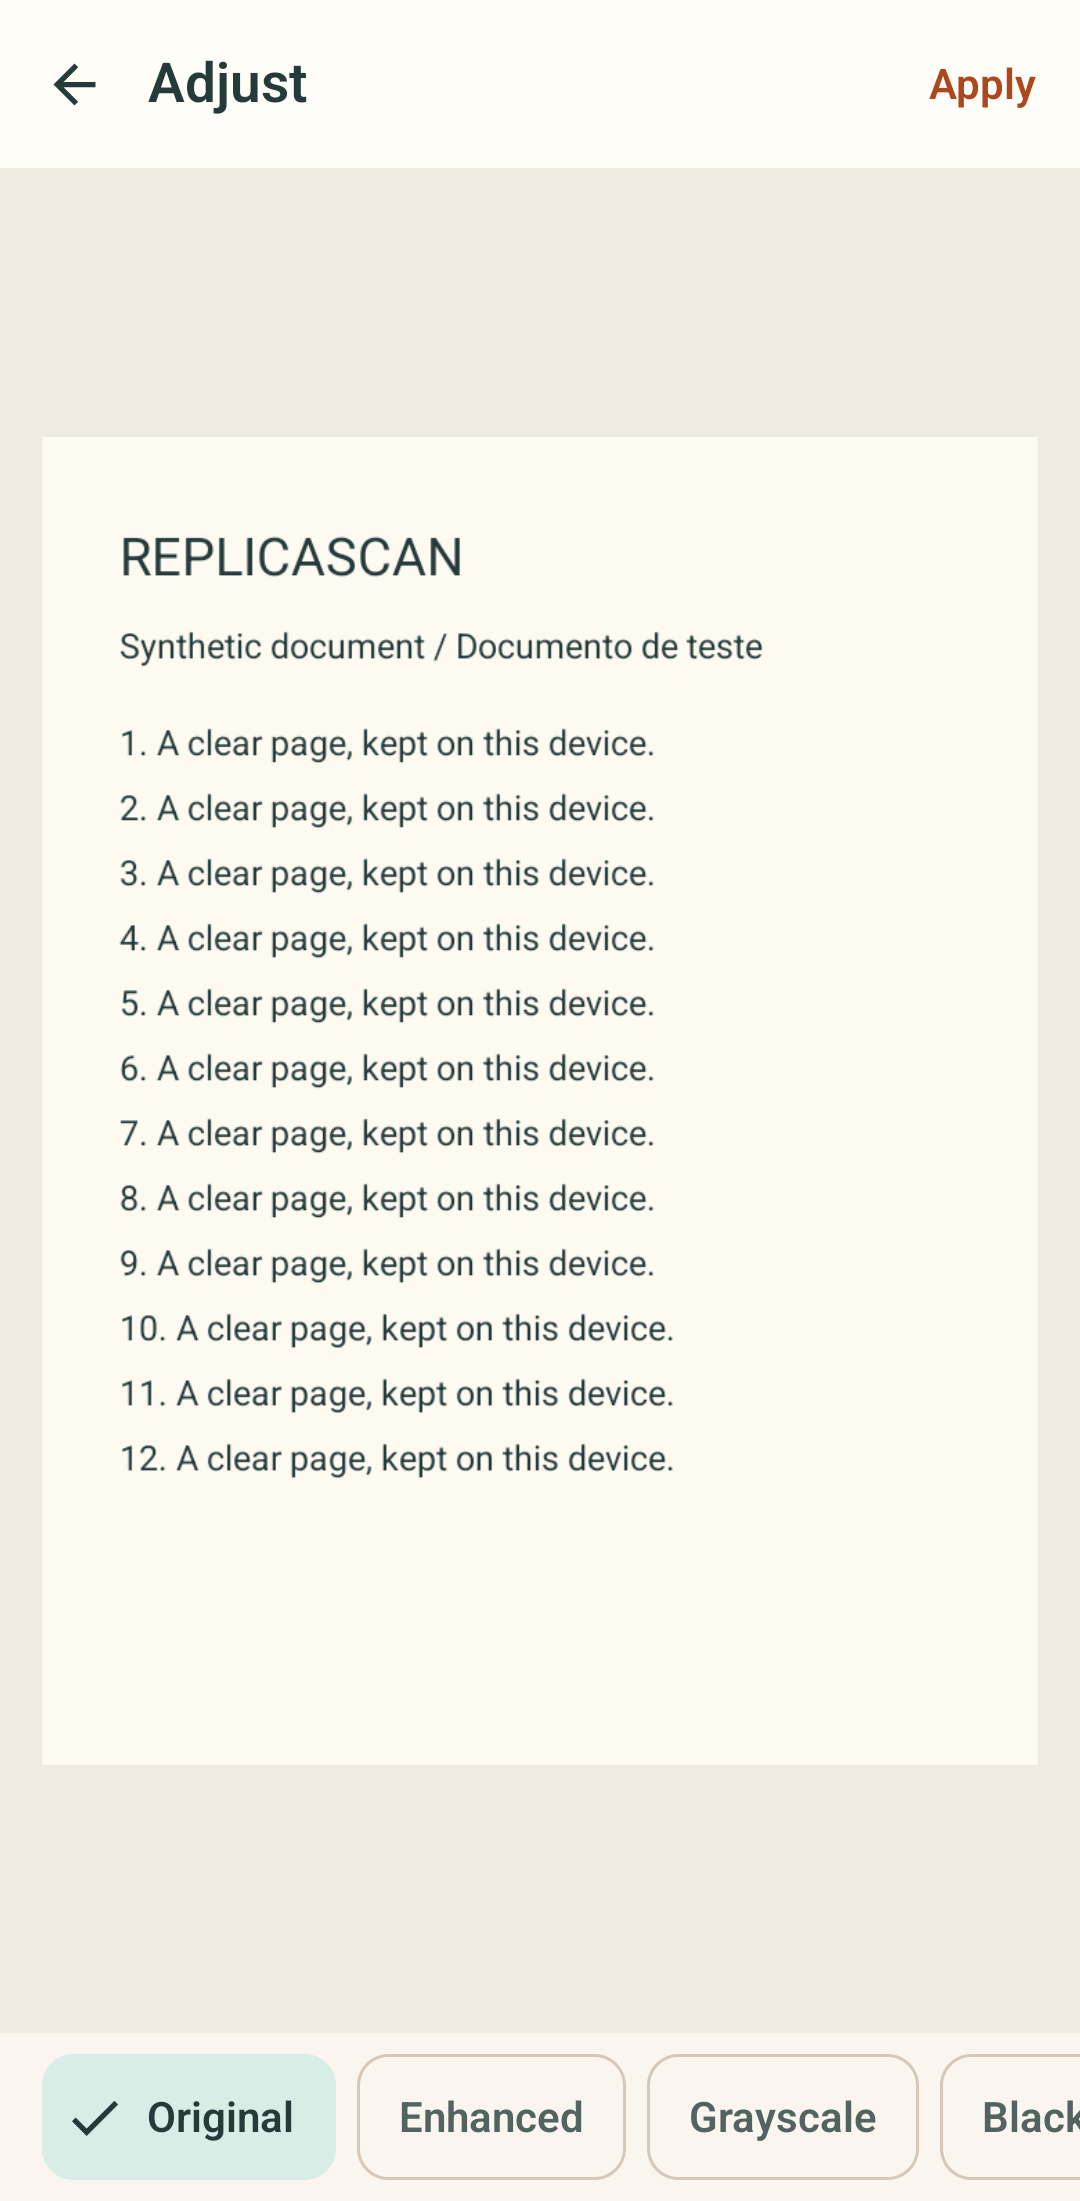
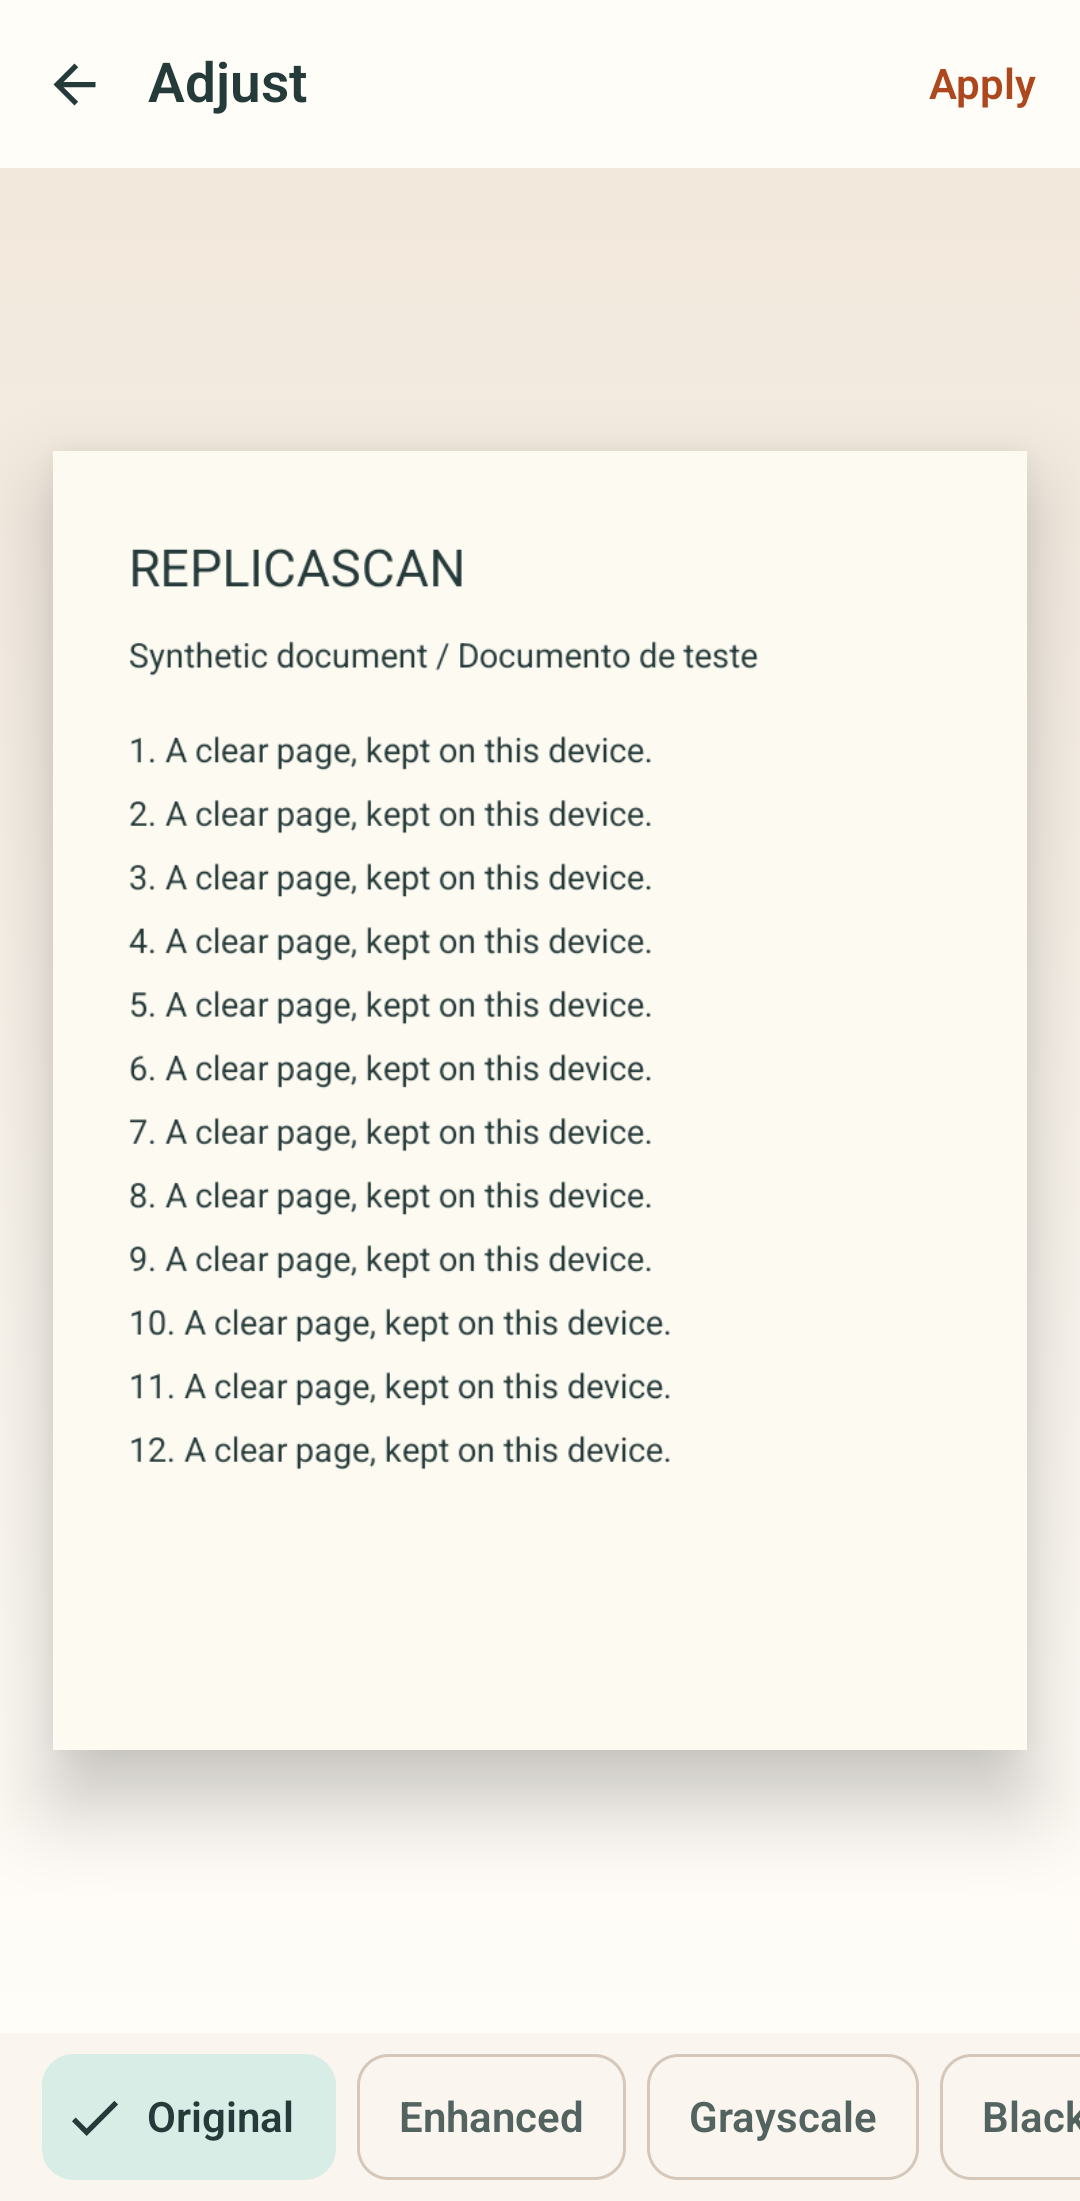
feat(editor): unify filter preview and OCR paper

Changed region(s): [[0.0917, 0.2472, 0.7028, 0.6797], [0.0306, 0.1854, 0.9778, 0.8342], [0.0, 0.896, 1.0, 0.9269]]

diff --git a/feature-editor/src/main/java/com/soturine/replicascan/feature/editor/FilterScreen.kt b/feature-editor/src/main/java/com/soturine/replicascan/feature/editor/FilterScreen.kt
@@ -1,6 +1,5 @@
 package com.soturine.replicascan.feature.editor
 
-import androidx.compose.animation.Crossfade
 import androidx.compose.foundation.gestures.detectTapGestures
 import androidx.compose.foundation.focusable
 import androidx.compose.ui.input.key.Key
@@ -17,9 +16,7 @@ import androidx.compose.ui.semantics.Role
 import androidx.compose.ui.semantics.onClick
 import androidx.compose.ui.semantics.role
 import androidx.compose.ui.semantics.semantics
-import androidx.compose.foundation.background
 import androidx.compose.foundation.layout.Arrangement
-import androidx.compose.foundation.layout.Box
 import androidx.compose.foundation.layout.Column
 import androidx.compose.foundation.layout.PaddingValues
 import androidx.compose.foundation.layout.fillMaxSize
@@ -53,12 +50,10 @@ import androidx.compose.runtime.saveable.rememberSaveable
 import androidx.compose.runtime.setValue
 import androidx.compose.ui.Alignment
 import androidx.compose.ui.Modifier
-import androidx.compose.ui.layout.ContentScale
 import androidx.compose.ui.layout.onSizeChanged
 import androidx.compose.ui.res.stringResource
 import androidx.compose.ui.unit.dp
 import com.soturine.replicascan.core.common.model.DocumentFilterType
-import com.soturine.replicascan.core.ui.component.AsyncUriImage
 import com.soturine.replicascan.core.ui.localizedTitle
 import kotlin.math.max
 
@@ -108,24 +103,16 @@ fun FilterScreen(
             if (state.isPreviewLoading || state.isProcessing) {
                 LinearProgressIndicator(modifier = Modifier.fillMaxWidth())
             }
-            Box(
+            DocumentPaperStage(
+                imageUri = state.previewImageUri ?: page.sourceUri,
+                fallbackUri = page.sourceUri,
+                loading = false,
+                maxDimension = previewLongSide.coerceIn(1_200, 1_800),
                 modifier = Modifier
                     .weight(1f)
                     .fillMaxWidth()
-                    .background(MaterialTheme.colorScheme.surfaceContainer)
-                    .padding(16.dp)
                     .onSizeChanged { size -> previewLongSide = max(size.width, size.height) },
-            ) {
-                Crossfade(targetState = state.previewImageUri, label = "lookPreview") { uri ->
-                    AsyncUriImage(
-                        imageUri = uri,
-                        fallbackImageUri = page.sourceUri,
-                        modifier = Modifier.fillMaxSize(),
-                        contentScale = ContentScale.Fit,
-                        maxDimension = previewLongSide.coerceIn(1_200, 1_800),
-                    )
-                }
-            }
+            )
             Column(
                 modifier = Modifier.fillMaxWidth().navigationBarsPadding().padding(vertical = 8.dp),
                 horizontalAlignment = Alignment.CenterHorizontally,

diff --git a/feature-ocr/src/main/java/com/soturine/replicascan/feature/ocr/OcrScreen.kt b/feature-ocr/src/main/java/com/soturine/replicascan/feature/ocr/OcrScreen.kt
@@ -15,7 +15,6 @@ import androidx.compose.foundation.layout.navigationBarsPadding
 import androidx.compose.foundation.layout.padding
 import androidx.compose.foundation.layout.width
 import androidx.compose.foundation.lazy.LazyColumn
-import androidx.compose.foundation.lazy.items
 import androidx.compose.foundation.text.selection.SelectionContainer
 import androidx.compose.material.icons.Icons
 import androidx.compose.material.icons.automirrored.filled.ArrowBack
@@ -171,11 +170,23 @@ fun OcrScreen(
                             }
                         }
                     }
-                    items(state.paragraphs.ifEmpty { null }?.map { it.text } ?: listOf(state.text)) { paragraph ->
+                    item(key = "text") {
                         ReplicaScanContent {
-                            Surface(shape = MaterialTheme.shapes.medium, color = MaterialTheme.colorScheme.surface) {
+                            Surface(
+                                shape = MaterialTheme.shapes.extraSmall,
+                                color = MaterialTheme.colorScheme.surface,
+                                shadowElevation = 6.dp,
+                            ) {
                                 SelectionContainer {
-                                    Text(paragraph, style = MaterialTheme.typography.bodyLarge, modifier = Modifier.fillMaxWidth().padding(20.dp))
+                                    Column(
+                                        Modifier.fillMaxWidth().padding(20.dp),
+                                        verticalArrangement = Arrangement.spacedBy(20.dp),
+                                    ) {
+                                        (state.paragraphs.ifEmpty { null }?.map { it.text } ?: listOf(state.text))
+                                            .forEach { paragraph ->
+                                                Text(paragraph, style = MaterialTheme.typography.bodyLarge)
+                                            }
+                                    }
                                 }
                             }
                         }

diff --git a/feature-editor/src/main/java/com/soturine/replicascan/feature/editor/ReviewScreen.kt b/feature-editor/src/main/java/com/soturine/replicascan/feature/editor/ReviewScreen.kt
@@ -188,7 +188,7 @@ fun ReviewScreen(
         BoxWithConstraints(modifier = Modifier.fillMaxSize().padding(innerPadding)) {
             val wide = maxWidth >= 600.dp && maxWidth > maxHeight
             val document: @Composable (Modifier) -> Unit = { documentModifier ->
-                PagePreview(
+                DocumentPaperStage(
                     imageUri = state.previewImageUri ?: page.displayUri,
                     fallbackUri = page.sourceUri,
                     loading = state.isPreviewLoading || state.isProcessing,
@@ -263,7 +263,7 @@ fun ReviewScreen(
 }
 
 @Composable
-private fun PagePreview(
+internal fun DocumentPaperStage(
     imageUri: String,
     fallbackUri: String,
     loading: Boolean,

diff --git a/docs/design/visual-recovery/SCREEN_REVIEW.md b/docs/design/visual-recovery/SCREEN_REVIEW.md
@@ -11,8 +11,8 @@ automaticamente todas as telas, o movimento ou a release.
 |---|---|---|
 | Home com recentes e vazia | Cena nativa de papel e raposa e CTA Escanear de 68 dp. Em fonte 200%, a cena sai para preservar conteúdo e ações. Espaço inferior com poucos itens continua natural ao conteúdo. | Implementado; capturas API 34 claras, escuras e 200%; aceite pendente |
 | Onboarding (3 páginas) | Saudação, leitura e sucesso agora acompanham escanear, revisar e guardar; antes, as duas primeiras páginas repetiam a pose de trabalho. A sequência ainda precisa de inspeção física de swipe/RTL. | Implementado; cinco testes Android focados passaram com a matriz visual; aceite pendente |
-| Revisão, crop e filtros | Review/Crop dão luz e profundidade à página nativa. O recorte mantém quatro cantos e página inteira por padrão; controles, gesto e geometria não foram movidos. Filtros ainda precisam de refinamento. | Review/Crop capturados em claro e Review em escuro/RTL/fonte 200%; QA físico pendente |
-| OCR carregando, pronto e vazio | Texto reconhecido é a peça principal; o grande espaço livre com texto curto não deve ser preenchido por decoração. Estados de modelo e seleção precisam inspeção com OCR real e TalkBack. | Capturado com estado injetado; fluxo real pendente |
+| Revisão, crop e filtros | Review/Crop/filtros dão luz e profundidade à mesma página nativa. O recorte mantém quatro cantos e página inteira por padrão; controles, gesto e geometria não foram movidos. | Capturados em claro; Review também em escuro/RTL/fonte 200%; QA físico pendente |
+| OCR carregando, pronto e vazio | Parágrafos ficam em uma folha selecionável, com cópia e idioma preservados. Carregamento e vazio mantêm a raposa; estados de modelo e seleção precisam inspeção com OCR real e TalkBack. | Capturado com estado injetado; fluxo real pendente |
 | Exportação: PDF/JPG/PNG | Prévia, quantidade de páginas e formato atual agora formam uma superfície única; nome, qualidade e tamanho continuam editáveis e progressivos. Estado escuro com fonte 200% exige rolagem para opções inferiores. | Implementado; capturas API 34; aceite pendente |
 | Exportação: progresso, sucesso, erro | A mesma folha real e a raposa acompanham preparo, gravação, sucesso e recuperação, com pose articulada conforme o estado. Sucesso identifica o arquivo e erro preserva opções de nova tentativa. | Capturado com estado injetado; exportação real/aceite pendentes |
 | Histórico, busca, detalhe | Uma biblioteca com só um item deixa espaço livre; não adicionar conteúdo artificial. Busca e ações documentais devem ser exercitadas em aparelho. | Capturado; interação pendente |

diff --git a/README.md b/README.md
@@ -27,7 +27,7 @@ Não há conta, backend, sincronização ou upload obrigatório de documentos. C
 
 ## Redesign e evidência
 
-A base da v0.4.1 traz papel marfim, tinta petróleo e terracota, revisão de telas, crop com cantos independentes e exportação com nome de arquivo, progresso e recuperação persistente. O visual do ciclo anterior foi rejeitado pelo proprietário. Um novo master e sete poses baseados na raposa da v0.4.0 receberam aceite como arte estática. A pose de atenção teve patas extras corrigidas e um rig candidato com camadas independentes foi capturado no Android. A Home integra a raposa à cena de papel e prioriza Escanear inclusive com fonte 200%; a exportação conecta prévia real e raposa em preparo, progresso, sucesso e erro. Revisão e recorte receberam luz e profundidade de papel sem mudar os controles de edição. Introdução, animação, ícone e conjunto das telas continuam sem aceite final.
+A base da v0.4.1 traz papel marfim, tinta petróleo e terracota, revisão de telas, crop com cantos independentes e exportação com nome de arquivo, progresso e recuperação persistente. O visual do ciclo anterior foi rejeitado pelo proprietário. Um novo master e sete poses baseados na raposa da v0.4.0 receberam aceite como arte estática. A pose de atenção teve patas extras corrigidas e um rig candidato com camadas independentes foi capturado no Android. A Home integra a raposa à cena de papel e prioriza Escanear inclusive com fonte 200%; a exportação conecta prévia real e raposa em preparo, progresso, sucesso e erro. Revisão, recorte e filtros compartilham a luz e a profundidade do papel sem mudar os controles de edição; OCR reúne o texto selecionável em uma folha. Introdução, animação, ícone e conjunto das telas continuam sem aceite final.
 
 Veja a [auditoria de recuperação visual](docs/design/visual-recovery/AUDIT.md), a [prancha das poses](docs/design/visual-recovery/candidates/review.html), o [clipe e as capturas Android atuais](docs/design/visual-recovery/evidence/README.md), a [revisão por tela](docs/design/visual-recovery/SCREEN_REVIEW.md) e a [matriz de validação](docs/design/visual-recovery/VALIDATION_MATRIX.md). O material novo usa estados injetados e documento sintético; não substitui QA físico, TalkBack humano, revisão linguística nativa ou aceite final.
 

diff --git a/CHANGELOG.md b/CHANGELOG.md
@@ -8,6 +8,7 @@ Este projeto segue Semantic Versioning e recomenda Conventional Commits no fluxo
 - Rig Compose candidato articula cabeça, cauda, patas, folha e piscadas em camadas de renderização; a pose de atenção teve patas extras removidas. Clipe Android v2 e frames consecutivos publicados para revisão, ainda sem aceite final do movimento.
 - Home recomposta com a raposa diante de uma folha iluminada, botão Escanear mais evidente e estado vazio sem cartão pesado; em fonte 200% a ilustração cede espaço às ações. Capturas nativas claras e escuras atualizadas.
 - Revisão e recorte passam a iluminar a página e dar profundidade ao papel; prévia, quatro alças, gesto e recorte de página inteira mantêm a mesma geometria.
+- Filtros compartilham o mesmo palco de papel da revisão; OCR apresenta todos os parágrafos em uma folha selecionável, preservando cópia e escolha de idioma.
 - Exportação recomposta em quatro cenas ligadas à prévia real do documento: preparo com opções progressivas, trabalho com progresso, sucesso com arquivo e ações, erro com recuperação. A folha mantém iluminação no tema escuro e forma pilha quando há várias páginas; callbacks e estados de gravação existentes foram preservados.
 - Atlas deformado substituído por poses completas em Compose, com movimento discreto, respeito ao lifecycle/redução de movimento e clipe de frames Android. Exportação em andamento voltou a mostrar prévia e identificação da página.
 - Home com mascote mais legível e texto em largura completa; em fonte 200% a arte cede espaço ao conteúdo. Opções de exportação reúnem prévia, páginas e formato atual na mesma superfície.

diff --git a/docs/design/visual-recovery/evidence/README.md b/docs/design/visual-recovery/evidence/README.md
@@ -16,6 +16,8 @@ fatia anterior do mesmo runtime com as poses aprovadas.
 `review.png`, `crop.png` e `review-dark-200-rtl.png` foram recapturados em
 2026-10-13 após a iluminação e a profundidade da página. O teste confirma
 renderização desses estados; o gesto de recorte ainda requer QA físico.
+`filters.png` e `ocr-ready.png` foram recapturados após a folha compartilhada
+dos filtros e o agrupamento selecionável dos parágrafos do OCR.
 
 O [clipe v2](mascot-motion-v2.mp4) reúne 64 frames renderizados no Android com o
 clock de teste em passos de 125 ms e codificados em MP4 a 8 fps. Sequência:
